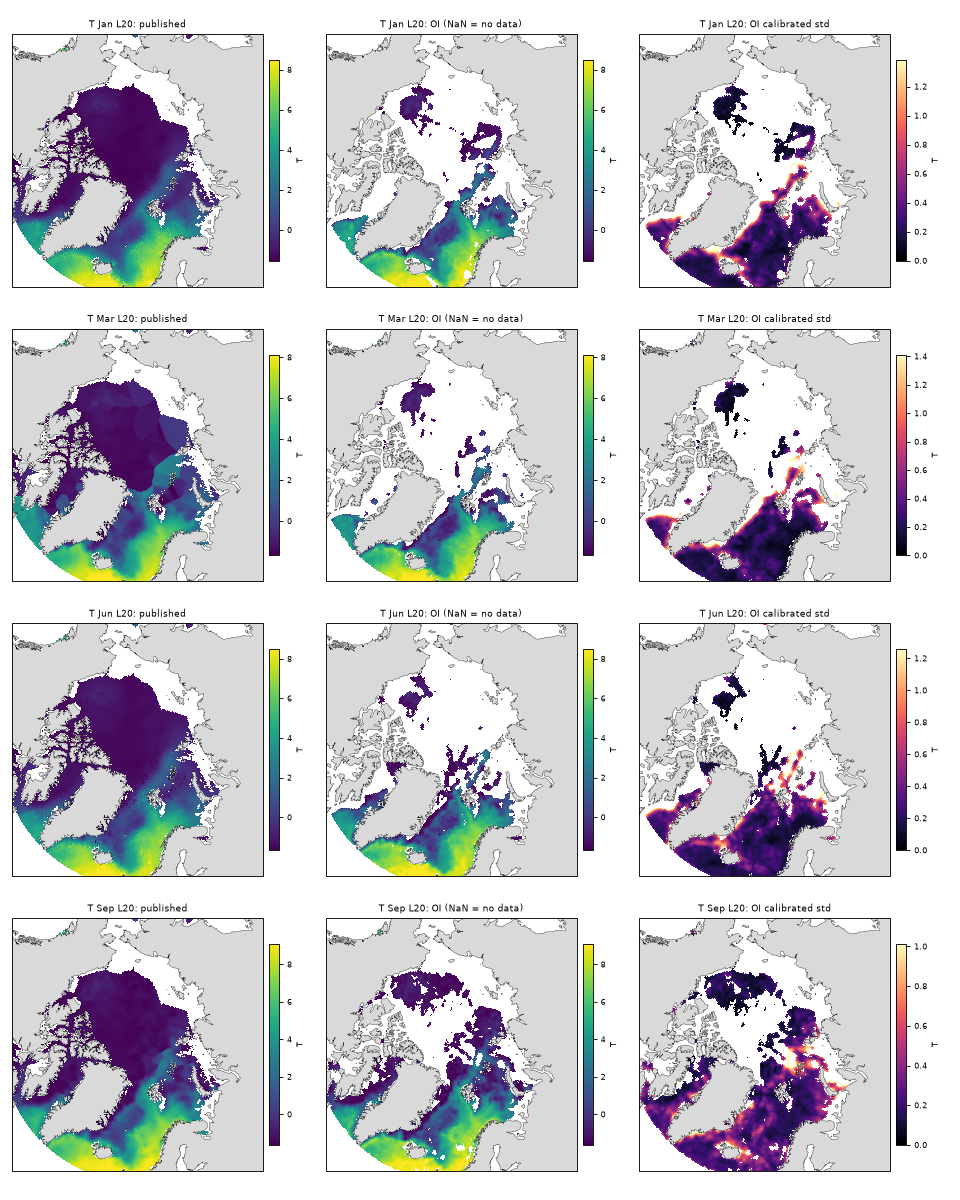
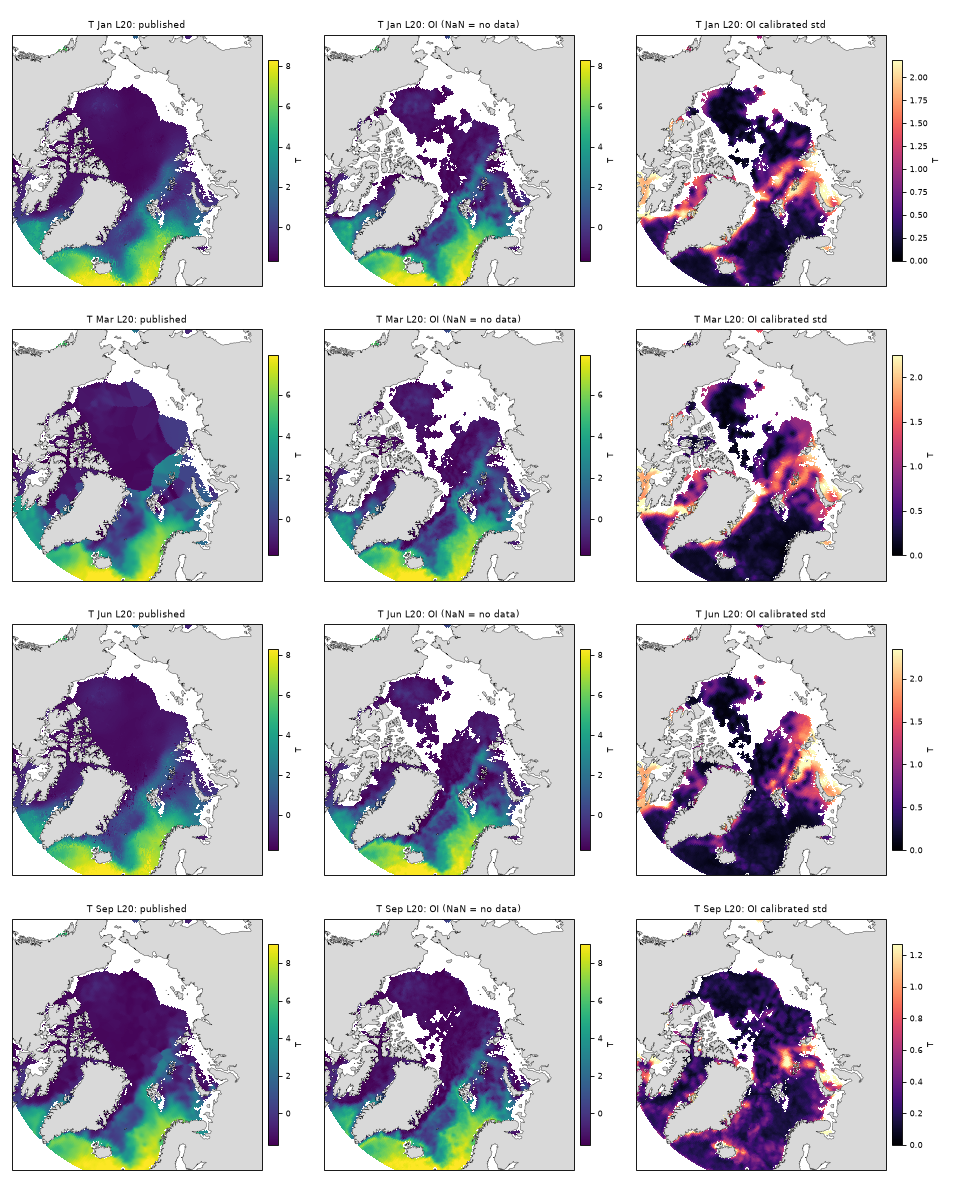
OI: relerr_max=5

diff --git a/aotd/oi.py b/aotd/oi.py
@@ -19,7 +19,7 @@ PARAMS = dict(
     rmax_fac=2.0,              # only nodes within rmax_fac * L are used
     nsr_a=0.1, nsr_b=0.3,      # obs noise variance = sigma^2 * (a + b / n_profiles_in_node)
     dmax=150.0,                # km: NaN if the nearest observation node (any month) is further away
-    relerr_max=1.0,            # NaN if calibrated std exceeds this fraction of the local natural variability (loc_sd)
+    relerr_max=5.0,            # NaN if calibrated std exceeds this fraction of the local natural variability (loc_sd)
     Kw=50, Rw=500.0, n0=10, floor=0.02,  # moving window for local variances: nearest Kw nodes within Rw km; shrinkage
 )
 

diff --git a/scripts/oi_remask.py b/scripts/oi_remask.py
@@ -16,7 +16,7 @@ for k in levels:
         res = dict(field=d[f"{name}_raw_field"], std=d[f"{name}_raw_std"], dmin=d[f"{name}_dmin"], loc_sd=d[f"{name}_loc_sd"])
         okc = np.isfinite(res["field"][0])
         row = []
-        for rm in (0.5, 0.75, 1.0, 1.5):
+        for rm in (1.0, 2.0, 5.0):
             p = dict(oi.PARAMS, relerr_max=rm)
             f, s = oi.apply_mask(res, infl, p)
             row.append(f"{rm}: {np.isfinite(f[0])[okc].mean():.2f}")

diff --git a/HANDOFF.md b/HANDOFF.md
@@ -79,3 +79,4 @@ Upstream mapping has no temporal decorrelation: weights are purely spatial; `Lt 
 - Mask: NaN if nearest node > 150 km or calibrated std > relerr_max * local_sd (relerr_max now 1.0). `scripts/oi_remask.py` re-applies a mask to saved levels and prints Jan coverage per threshold.
 - CV z-std improved slightly (robust 1.0-2.2). Jan valid fraction at relerr_max=1.0: T 0.28/0.30/0.14, S 0.73/0.57/0.10 (10/100/1500 m).
 - Finding: a relative rule NaNs the central Arctic at 10 m T, where T is near freezing and local_sd is tiny even though absolute errors are small (see `reports/oi/maps/oi_T_L2.png`). Probably needs an absolute floor (max of relative and absolute tolerance); thresholds are a user policy decision.
+- User set relerr_max = 5 (2026-10-13). Jan valid fraction: T 0.59/0.73/0.52, S 0.99/0.98/0.23 (10/100/1500 m). Maps regenerated.
